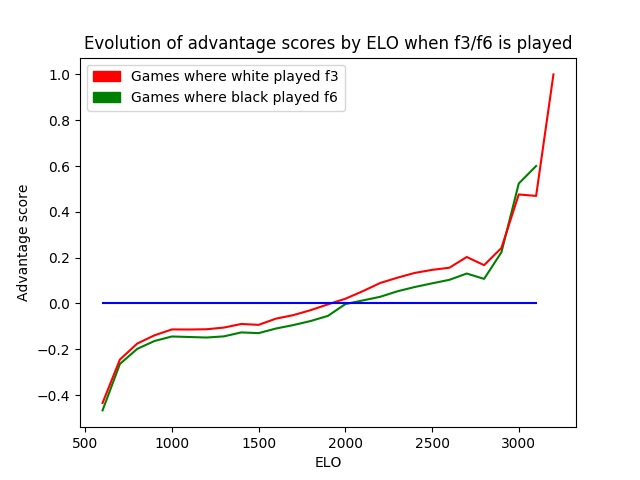
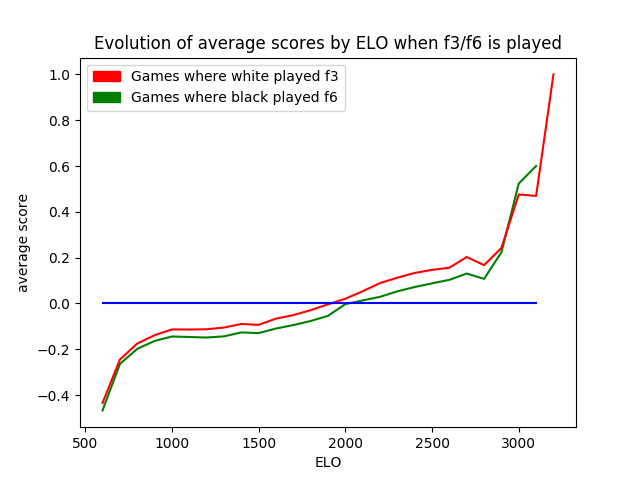
chore: replace "advantage" with "average" in code and doc

Changed region(s): [[0.125, 0.0625, 0.9062, 0.125], [0.0312, 0.375, 0.0625, 0.625]]

diff --git a/main.py b/main.py
@@ -88,14 +88,14 @@ for i in range(40):
     all_games['1/2-1/2'] += all_games[i * 100]['1/2-1/2']
 
 
-# Compute advantage score = (games won - games lost) / number of games
+# Compute average score = (games won - games lost) / number of games
 for i in range(40):
     # White
     white_games = games_where_white_played_f3[i * 100]
     number_of_white_games = white_games['1-0'] + \
         white_games['0-1'] + white_games['1/2-1/2']
     if number_of_white_games > 0:
-        white_games['advantage_score'] = (
+        white_games['average_score'] = (
             white_games['1-0'] - white_games['0-1']) / number_of_white_games
     else:
         del games_where_white_played_f3[i * 100]
@@ -105,7 +105,7 @@ for i in range(40):
     number_of_black_games = black_games['1-0'] + \
         black_games['0-1'] + black_games['1/2-1/2']
     if number_of_black_games > 0:
-        black_games['advantage_score'] = (
+        black_games['average_score'] = (
             black_games['0-1'] - black_games['1-0']) / number_of_black_games
     else:
         del games_where_black_played_f6[i * 100]

diff --git a/results/plot.py b/results/plot.py
@@ -11,20 +11,20 @@ with open("./results/games-where-black-played-f6.json", "r") as f1:
   games = json.load(f1)
   for key, value in games.items():
     x1.append(int(key))
-    y1.append(value["advantage_score"])
+    y1.append(value["average_score"])
 
 with open("./results/games-where-white-played-f3.json", "r") as f2:
   games = json.load(f2)
   for key, value in games.items():
     x2.append(int(key))
-    y2.append(value["advantage_score"])
+    y2.append(value["average_score"])
 
 black = plt.plot(x1, y1, 'g')
 white = plt.plot(x2, y2, 'r')
 plt.plot(x1, [0] * len(y1), 'b')
-plt.title("Evolution of advantage scores by ELO when f3/f6 is played")
+plt.title("Evolution of average scores by ELO when f3/f6 is played")
 plt.xlabel('ELO')
-plt.ylabel('Advantage score')
+plt.ylabel('average score')
 
 red_patch = mpatches.Patch(color='red', label='Games where white played f3')
 green_patch = mpatches.Patch(color='green', label='Games where black played f6')

diff --git a/README.md b/README.md
@@ -35,7 +35,7 @@ Now for the scores! In all those games:
 - When white played f3 they won 7.074.502 games, lost 7.846.995 and drew 929.394
 - When black played f6 they won 6.446.881 games, lost 7.967.157 and drew 870.040
 
-We could compare those numbers in terms of win rate, but those wouldn't take into account the draws, so we will define a measure called "Advantage score" for the sake of this project defined as such:
+We could compare those numbers in terms of win rate, but those wouldn't take into account the draws, so we will define a measure called "average score" for the sake of this project defined as such:
 
 average score = (number of games won - number of games lost) / number of games
 
@@ -53,5 +53,4 @@ GM Ben Finegold seems to be right!
 
 ## TODOs
 
-- replace "advantage" with "average score"
 - write section about comparing by elo: What I find really cool about this result is that the data confirms the intuition: f3/f6 is a complicated move which will trip up weaker player, but can be used a tool to win for stronger player. Corrolation is almost linear!
